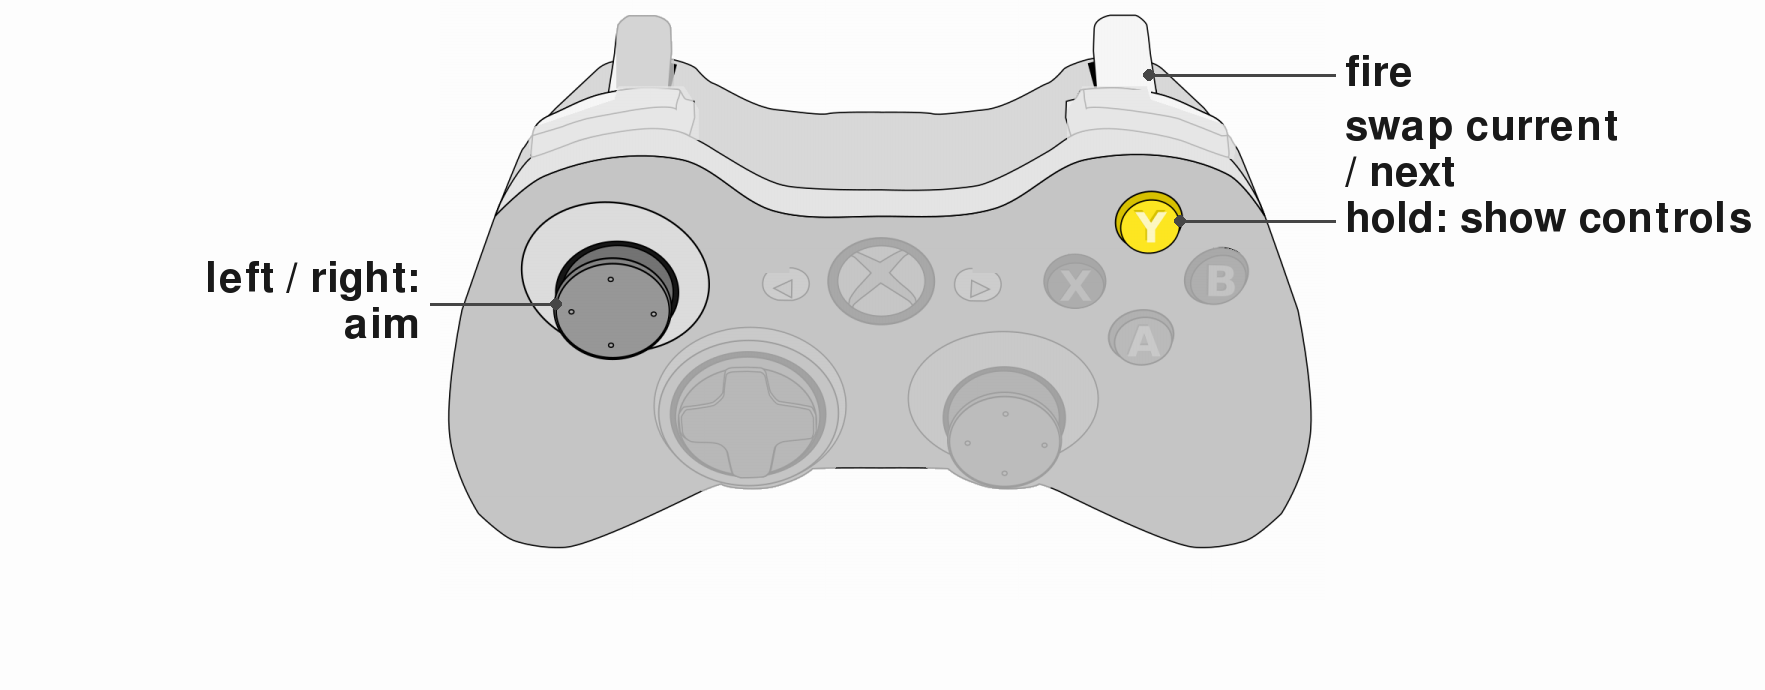
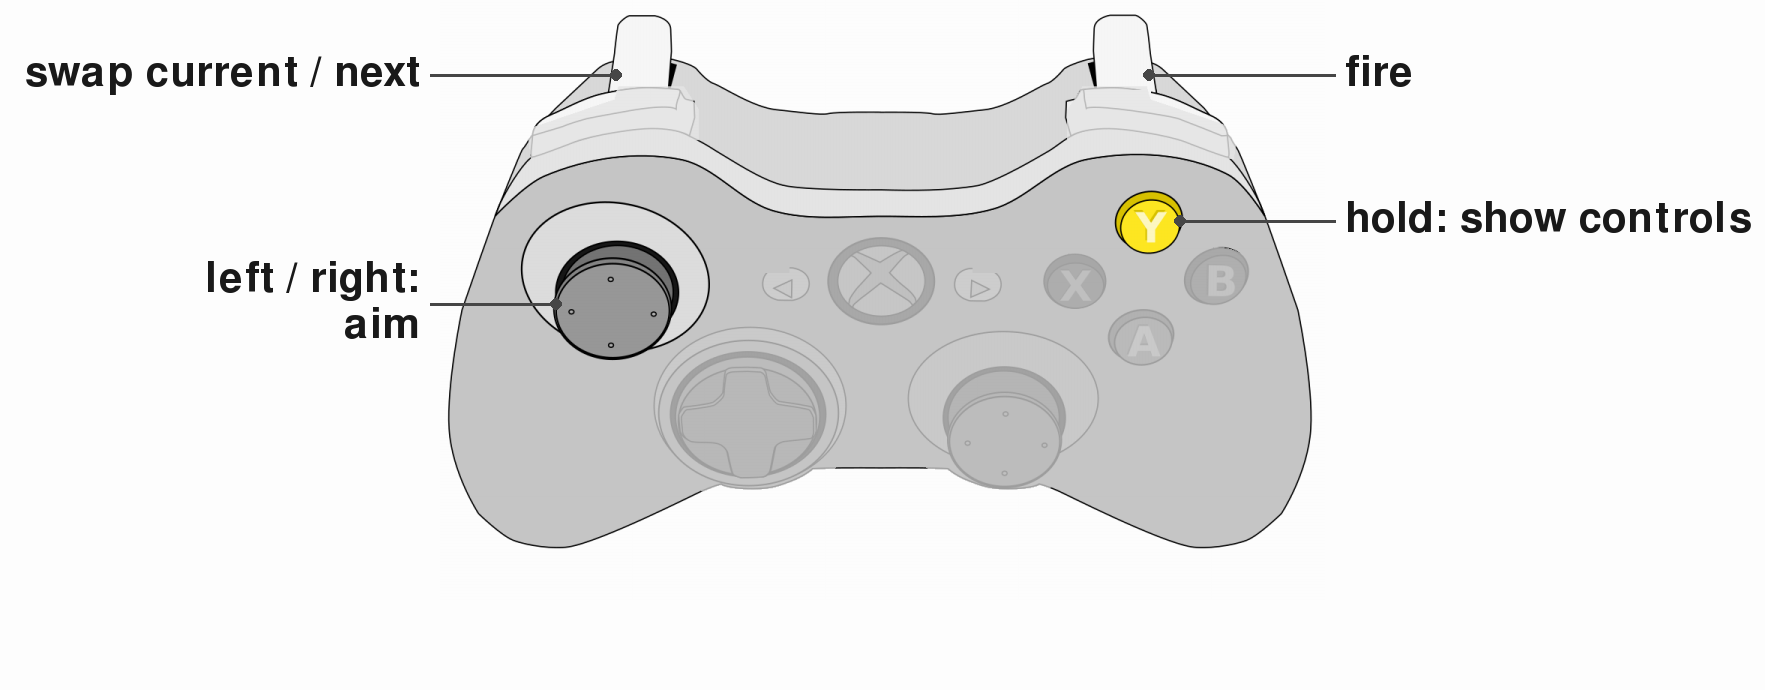
Show only the controls image on the controller instructions screens
The instructions of every curriculum that shows a controls image no longer
list the controls as text under it: the image is the one list a participant
reads. The controls-images and pull-request skills say so.

Bubble Shooter (GMPD3 stick-nav) swaps on LT instead of Y, so Y only shows
the controls and the swap label sits on its own button. Freedoom's Y label
is two lines, "doors, switches" over "hold: show controls", so it fits.

Checked: all 100 curricula that include the changed files load; every
redrawn screen rendered at 1024x768 and looked at.

Changed region(s): [[0.0, 0.0, 0.4051, 0.1522], [0.7479, 0.1522, 0.9348, 0.2739]]

diff --git a/.claude/skills/controls-images/SKILL.md b/.claude/skills/controls-images/SKILL.md
@@ -1,17 +1,17 @@
 ---
 name: controls-images
-description: Make, edit or check a game's controls image (a gamepad drawing with each control the game uses named by its action) that a curriculum's instructions show with an image line. Use when adding a controller curriculum, when changing a curriculum's controls, menu or Controls lines, when a curriculum's instructions name an image under configs/images/controls/, or when asked whether the images are up to date.
+description: Make, edit or check a game's controls image (a gamepad drawing with each control the game uses named by its action) that a curriculum's instructions show with an image line. Use when adding a controller curriculum, when changing a curriculum's controls or menu, when a curriculum's instructions name an image under configs/images/controls/, or when asked whether the images are up to date.
 ---
 
 # Controls images
 
-A screen's text shows an image where a line is only `![alt](path)`, the path from `configs/` (`humans/outputs/display.py`, `IMAGE_LINE`); a missing or unreadable image stops the run at load. The controls images are one PNG per controller curriculum's shared phase, `configs/images/controls/<backend>/<common file's name>.png`, each shown above that phase's Controls lines, which stay as text. They are drawn, never edited by hand: `configs/images/controls/labels.json` names the underlay (the Xbox 360 drawing in `configs/images/controllers/`) and, per image, each control (as a curriculum writes it, the stick as `LEFT_STICK`) with the lines beside it; `tools/controls_images.py` draws them all. A control with no label is greyed out, as are the drawing's controls no controller rig has (bumpers, D-pad, right stick, Back, Start, Guide), and the names printed on the drawing are painted over; the areas are constants at the top of the tool, in the underlay's pixels.
+A screen's text shows an image where a line is only `![alt](path)`, the path from `configs/` (`humans/outputs/display.py`, `IMAGE_LINE`); a missing or unreadable image stops the run at load. The controls images are one PNG per controller curriculum's shared phase, `configs/images/controls/<backend>/<common file's name>.png`, each shown in that phase's instructions in place of Controls lines: the image is the only list of the controls the participant reads. They are drawn, never edited by hand: `configs/images/controls/labels.json` names the underlay (the Xbox 360 drawing in `configs/images/controllers/`) and, per image, each control (as a curriculum writes it, the stick as `LEFT_STICK`) with the lines beside it; `tools/controls_images.py` draws them all. A control with no label is greyed out, as are the drawing's controls no controller rig has (bumpers, D-pad, right stick, Back, Start, Guide), and the names printed on the drawing are painted over; the areas are constants at the top of the tool, in the underlay's pixels.
 
 ## Make or change one
 
-1. Edit its entry in `labels.json`: one key per control the phase binds in `controls`, plus the menu's `control` (labelled "hold: pause menu") and the hint's ("hold: show controls"); the text is the action the adapter's docstring gives that index, worded as the Controls lines word it.
+1. Edit its entry in `labels.json`: one key per control the phase binds in `controls`, plus the menu's `control` (labelled "hold: pause menu") and the hint's ("hold: show controls"); the text is the action the adapter's docstring gives that index, in a few words a participant reads at a glance.
 2. Redraw: `uv run python tools/controls_images.py configs/images/controls/labels.json`. A control the drawing does not have stops it, with the list of the ones it has.
-3. For a new image, add the line to the instructions' `text` in the `common/` file, above the Controls lines with an empty line after it: `"![controls](images/controls/<backend>/<name>.png)"`. A phase with a `hint` shows the same line at the top of the hint's `text`.
+3. For a new image, put the line in the instructions' `text` in the `common/` file where the Controls lines were, removing them, with an empty line before the "Press X to start" line: `"![controls](images/controls/<backend>/<name>.png)"`. A curriculum that overrides the instructions' `text` does the same. A phase with a `hint` shows the same line at the top of the hint's `text`.
 4. Look at the image, and at the screen it is on, at the rigs' 1024x768: the text and the image must fit, the heading and the "Press X to start" line included. To see one game's screen:
    ```bash
    SDL_VIDEODRIVER=dummy uv run python -c "
@@ -27,9 +27,9 @@ A screen's text shows an image where a line is only `![alt](path)`, the path fro
 
 ## Check they are up to date
 
-Whenever a branch touches a curriculum, or a `common/` file one includes, whose instructions show a controls image (`rg -l images/controls configs/curricula`), and above all when it changes `controls`, `menu` or the Controls lines:
+Whenever a branch touches a curriculum, or a `common/` file one includes, whose instructions show a controls image (`rg -l images/controls configs/curricula`), and above all when it changes `controls` or `menu`:
 
-- **Labels match the bindings.** For each such phase, the controls in its image's entry are exactly the ones it binds (any `CONTROLLER_AXIS_LEFTX_*` or `CONTROLLER_AXIS_LEFTY_*` counts as `LEFT_STICK`) plus the menu's and the hint's `control`, and each label says the action that control's index is bound to: a remapped button with its old label, a binding with no label, or a label with no binding is a mismatch. Labels and the Controls lines say the same thing.
+- **Labels match the bindings.** For each such phase, the controls in its image's entry are exactly the ones it binds (any `CONTROLLER_AXIS_LEFTX_*` or `CONTROLLER_AXIS_LEFTY_*` counts as `LEFT_STICK`) plus the menu's and the hint's `control`, and each label says the action that control's index is bound to: a remapped button with its old label, a binding with no label, or a label with no binding is a mismatch. Instructions that show the image have no Controls lines.
 - **Images match the labels.** Redraw, then `git status --short configs/images/controls`: a PNG that changed was stale; commit it. Nothing changed means the images are what `labels.json` says.
 - **Every image line has an entry** in `labels.json`, and every entry is shown by some curriculum; a hint's `text` shows the same image as its phase's instructions.
 

diff --git a/.claude/skills/pull-request/SKILL.md b/.claude/skills/pull-request/SKILL.md
@@ -19,7 +19,7 @@ PYTHONPATH="$(printf '%s:' gym/*/)" uv run lint-imports   # who imports whom: py
 
 All clean, or the PR says which backend you could not play here and why (the summary's skip line is the sentence to quote). The `testing` skill explains the options and how to read a failure. Commit messages carry the reasoning behind a change; the code, the docstrings and the configs describe the present only (AGENTS.md, rule 3).
 
-Then read every curriculum the branch touches, including each `common/` file the touched ones `__include`, and check by eye that what the subject is told matches what the phase binds: the Controls lines of the instructions' `text` name the same controls as the game phase's `controls` map, each with the action the adapter's docstring gives that index (a line saying "Y shoot" needs `"CONTROLLER_BUTTON_Y"` bound to the shoot action, and a bound control with no line, or a line with no binding, is a mismatch); the "Press X to start" line names a control in `controls_to_dismiss`; the instructions' hold lines name the menu's and the hint's `control`, the menu's `text` names its `move` and `confirm`, and a hint's image is its instructions'; a survey's text names its `controls`. No test checks this, so the agent does, and says in the PR which files it read. When one of those curricula shows a controls image (`rg -l images/controls configs/curricula`), check the image against the bindings too and redraw it (the `controls-images` skill, "Check they are up to date"), and say in the PR which images were checked and which were redrawn.
+Then read every curriculum the branch touches, including each `common/` file the touched ones `__include`, and check by eye that what the subject is told matches what the phase binds: the Controls lines of the instructions' `text` name the same controls as the game phase's `controls` map, each with the action the adapter's docstring gives that index (a line saying "Y shoot" needs `"CONTROLLER_BUTTON_Y"` bound to the shoot action, and a bound control with no line, or a line with no binding, is a mismatch); the "Press X to start" line names a control in `controls_to_dismiss`; the instructions' hold lines name the menu's and the hint's `control`, the menu's `text` names its `move` and `confirm`, and a hint's image is its instructions'; a survey's text names its `controls`. No test checks this, so the agent does, and says in the PR which files it read. When one of those curricula shows a controls image (`rg -l images/controls configs/curricula`), the image takes the place of the Controls lines: check its labels against the bindings instead and redraw it (the `controls-images` skill, "Check they are up to date"), and say in the PR which images were checked and which were redrawn.
 
 ## The title
 
